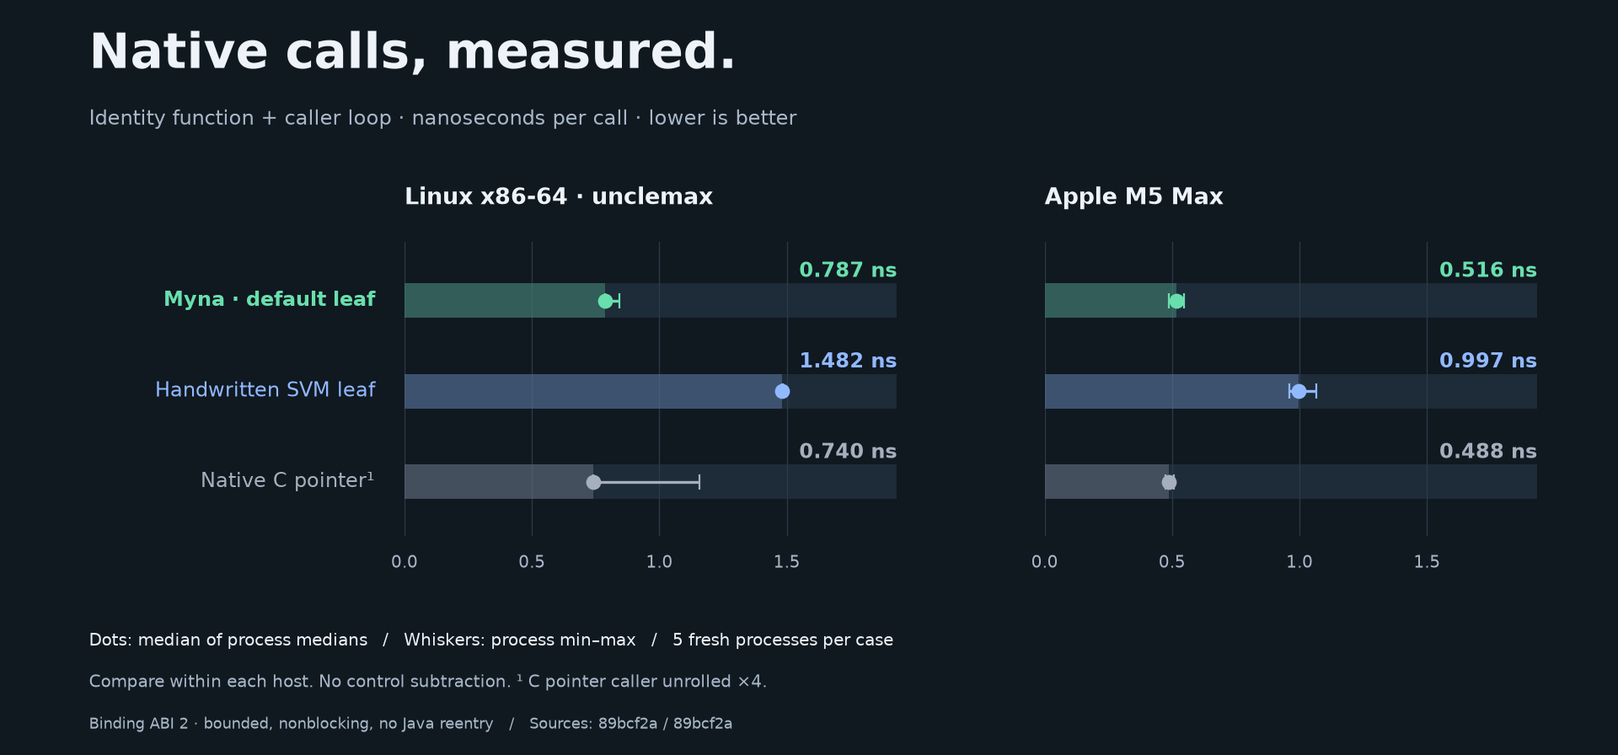
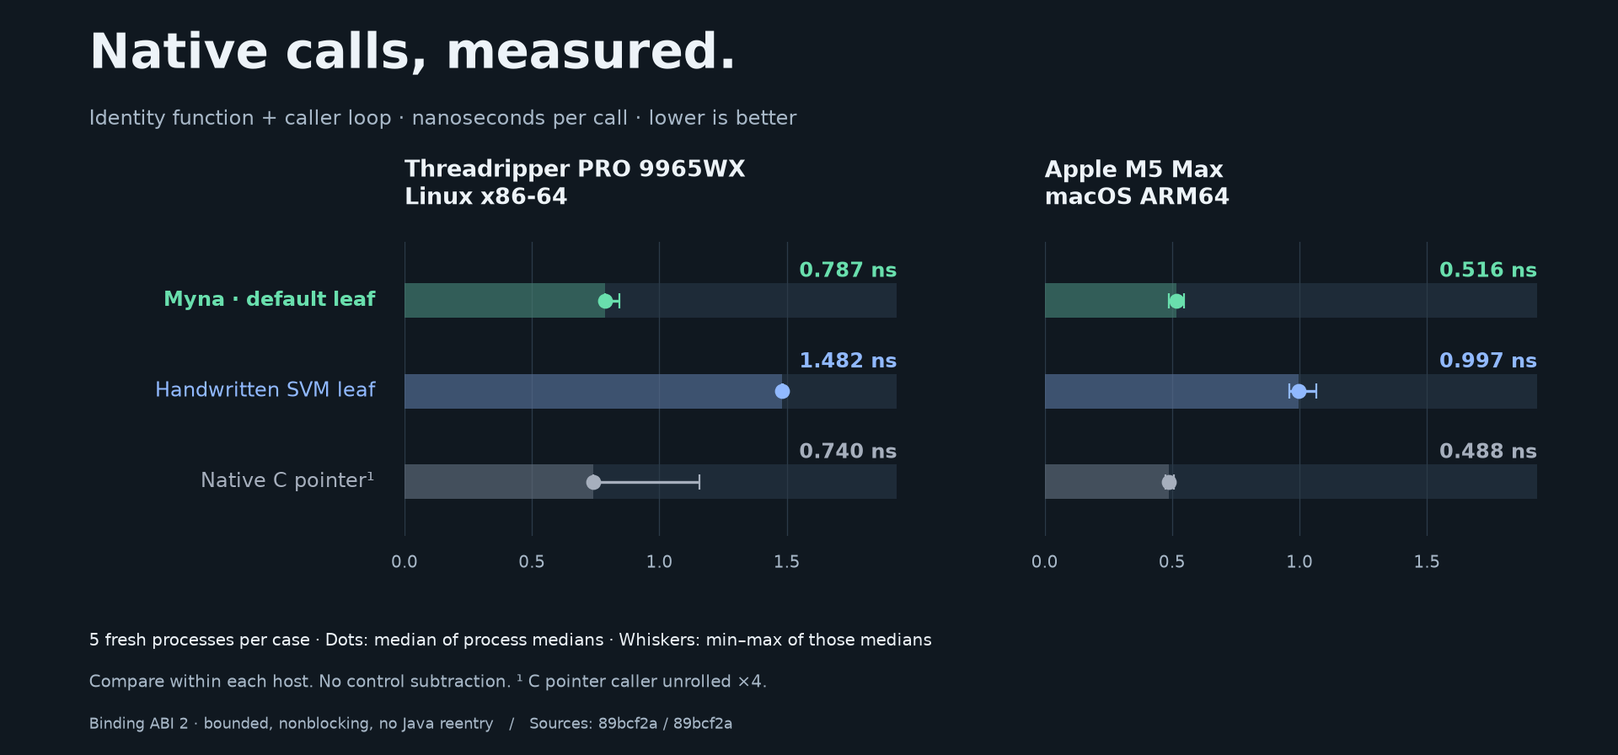
docs: tighten binding example and benchmark interpretation

Changed region(s): [[0.0625, 0.8438, 0.5625, 0.875], [0.25, 0.1875, 0.4688, 0.2812], [0.625, 0.2188, 0.7812, 0.2812]]

diff --git a/benchmarks/comparison/abi2-chart.py b/benchmarks/comparison/abi2-chart.py
@@ -40,7 +40,7 @@ plt.rcParams.update({'font.family':'DejaVu Sans','font.size':11,'svg.hashsalt':'
 fig,axes=plt.subplots(1,2,figsize=(12,5.6),facecolor=background)
 fig.subplots_adjust(left=.25,right=.95,top=.68,bottom=.29,wspace=.30)
 limit=max(max(g[(mode,case)]) for g in groups for mode,case,_,_ in cases)*1.30
-for ax,g,title in zip(axes,groups,('Linux x86-64 · unclemax','Apple M5 Max')):
+for ax,g,title in zip(axes,groups,('Threadripper PRO 9965WX\nLinux x86-64','Apple M5 Max\nmacOS ARM64')):
     ax.set_facecolor(background)
     for y,(mode,case,label,color) in enumerate(cases):
         values=g[(mode,case)]; median=statistics.median(values)
@@ -63,7 +63,7 @@ for y,(_,_,label,color) in enumerate(cases):
                  ha='right',va='center',fontsize=11,color=color,fontweight='bold' if y==0 else 'normal')
 fig.text(.055,.91,'Native calls, measured.',fontsize=26,fontweight='bold',color=foreground)
 fig.text(.055,.835,'Identity function + caller loop · nanoseconds per call · lower is better',fontsize=11,color=muted)
-fig.text(.055,.145,'Dots: median of process medians   /   Whiskers: process min–max   /   5 fresh processes per case',
+fig.text(.055,.145,'5 fresh processes per case · Dots: median of process medians · Whiskers: min–max of those medians',
          fontsize=9,color=foreground)
 fig.text(.055,.09,'Compare within each host. No control subtraction. ¹ C pointer caller unrolled ×4.',fontsize=9,color=muted)
 fig.text(.055,.035,'Binding ABI 2 · bounded, nonblocking, no Java reentry   /   Sources: '

diff --git a/README.md b/README.md
@@ -12,13 +12,13 @@
 
 # Myna
 
-Generate typed bindings between Java, Rust, and C/C++ from one `.seam` file. Myna targets **GraalVM Native Image / Substrate VM first**, with Java 25 FFM bindings for JVM callers. It also emits C headers, Rust FFI, ABI descriptors, and LLVM 23 optimizer contracts.
+Generate typed C-ABI bindings between Java, Rust, and C/C++ from one `.seam` file. Myna targets **GraalVM Native Image / Substrate VM first**, with Java 25 FFM bindings for JVM callers. It also emits C headers, Rust FFI, ABI descriptors, and LLVM 23 optimizer contracts.
 
 ## One binding, from Seam to native code
 
-This increment function is a complete scalar example of the default native-leaf contract: short, bounded, nonblocking, and unable to reenter Java.
+This example follows a signed 64-bit increment through the generated API to its C implementation. The function meets the default native-leaf contract: short, bounded, nonblocking, and unable to reenter Java. Its arithmetic precondition is `value < INT64_MAX`.
 
-**1. Describe the native function.** The [tested Seam fixture](tests/fast/fast.seam) declares its symbol, argument, return type, and static library:
+**1. Describe the native function.** The following excerpt from the [tested Seam fixture](tests/fast/fast.seam) declares its symbol, argument, return type, and static library:
 
 ```text
 module fast_fixture target=aarch64-apple-darwin java_package=fixture.fast java_class=FastApi c_context=fixture.fast.Directives c_library=fastfixture c_library_static=true
@@ -34,20 +34,24 @@ build/dist/myna generate tests/fast/fast.seam --out build/fast-example
 # For Linux x86-64, add: --target x86_64-unknown-linux-gnu
 ```
 
-**2. Myna generates the Java declarations.** The direct SVM API exposes a typed native pointer and an inlineable call. This excerpt is abridged; Myna supplies the initialization helpers and compiler annotations:
+**2. Myna generates the Java declarations.** The direct SVM backend uses internal APIs from the pinned Elide GraalVM distribution. These selected members of `FastApi` show the typed pointer and inlineable wrapper; imports, class annotations, and symbol-initialization helpers are omitted:
 
 ```java
 // FastApi.java — generated for Native Image
 public interface increment_Leaf extends CFunctionPointer {
+    @AlwaysInline("Myna binding ABI 2 native leaf")
+    @Uninterruptible(reason = "Bounded primitive/word native leaf; no Java reentry",
+                     mayBeInlined = true)
     @InvokeCFunctionPointer(transition = CFunction.Transition.NO_TRANSITION)
     long invoke(long value);
 }
+@AlwaysInline("Myna native leaf call")
 public static long increment(long value) {
     return MynaSymbols.increment.get().invoke(value);
 }
 ```
 
-The generated JVM adapter describes the same C ABI using Java 25 FFM:
+The generated JVM adapter describes the same signature with Java 25 FFM. This factory creates an ordinary FFM downcall; the direct SVM microbenchmark below measures a different call path:
 
 ```java
 // FastApiFFM.java — generated for the JVM
@@ -81,26 +85,27 @@ Here `libraryPath` is a `Path` to your platform's shared library; enable JVM nat
 ```c
 #include <stdint.h>
 
+// Precondition: value < INT64_MAX.
 int64_t myna_fast_increment(int64_t value) {
     return value + 1;
 }
 ```
 
-For SVM, link this implementation into `libfastfixture.a`, supply the [library-path directives](tests/fast/Directives.java), and include the generated `META-INF/native-image/` resources with the compiled bindings. The [Native Image integration test](tests/native_image_integration.py) builds and runs this path, including calls under concurrent GC. See [the adapter guide](docs/jvm-roadmap.md) for shared-library and FFM setup.
+For SVM, compile the C implementation into `libfastfixture.a` and compile the [library-path directives](tests/fast/Directives.java) alongside the bindings. Pass `-Dmyna.fast.libraryPath=/absolute/path/to/library-directory` to the Native Image builder, and include the generated `META-INF/native-image/` resources with the compiled classes. The [Native Image integration test](tests/native_image_integration.py) builds and runs this path, including default calls under concurrent GC. See [the adapter guide](docs/jvm-roadmap.md) for shared-library and FFM setup.
 
-Truffle languages can use these bindings from runtime-compiled code; see [the Truffle guest guide](docs/truffle-guests.md).
+Direct leaf bindings can also be called from Truffle-compiled code. The [Truffle guest guide](docs/truffle-guests.md) lists the compiler-version requirements for transitioning and FFM calls.
 
-Calls that can block or reenter Java must declare `native_leaf=false@explicit_contract`. Myna checks declared contracts for consistency; the native implementation must obey them.
+Calls that cannot meet the bounded, nonblocking, non-reentrant leaf contract must declare `native_leaf=false@explicit_contract`. Myna checks declared contracts for consistency; the native implementation must obey them.
 
-## Call overhead
+## Native-call microbenchmark
 
-Generated identity calls measure **0.787 ns on Linux x86-64 (unclemax)** and **0.516 ns on Apple M5 Max** in the November 7, 2026 binding ABI 2 reruns. The same builds measure handwritten Native Image `@CFunction(NO_TRANSITION)` calls at **1.482 ns** and **0.997 ns**, respectively.
+In the November 7, 2026 binding ABI 2 runs, generated SVM identity loops take **0.787 ns/call on Linux x86-64 (Threadripper PRO 9965WX)** and **0.516 ns/call on Apple M5 Max**. Handwritten Native Image `@CFunction(transition = NO_TRANSITION)` bindings to the same native function take **1.482 ns/call** and **0.997 ns/call**, respectively. These are elapsed loop time divided by call count, summarized as the median of five process medians.
 
-![Identity-call latency within each host: Myna default leaves, handwritten SVM leaves, and native C pointers; points show process medians and ranges](docs/charts/default-leaf.svg)
+![Time per call in an identity loop: generated and handwritten SVM leaves, with an unrolled native C pointer reference; dots show medians and whiskers span five process medians](docs/charts/default-leaf.svg)
 
-These timings include the identity function and caller loop, with no control subtraction. Each case has five fresh processes with ten samples each. Compare implementations **within each host**: Myna and native-pointer ranges overlap on both hosts, so these measurements do not establish a win over native C. Native pointer callers are explicitly unrolled four times.
+Each case uses five fresh processes, each with ten warmup and ten retained samples. Generated and handwritten SVM paths use the same image build; all three series call the same native kernel object within each host. Timings include the callee and loop, with no control subtraction. The C function-pointer series is a reference floor with explicit four-call unrolling, so loop structure also differs. Whiskers show the min–max of the five process medians, not confidence intervals. Myna and native-pointer ranges overlap on both hosts; these runs do not establish a win over native C. Compare implementations **within each host**.
 
-Myna's generated direct calls use relocated symbols and remove the extra SVM leaf stub. Both hosts pass concurrent-GC and assembly checks. See [the performance design](docs/performance.md) and [ABI 2 contracts](docs/binding-abi-2.md).
+The inspected generated SVM paths call the linked symbol without a standalone generated leaf stub. Separate pointer and bounded-batch workloads pass the benchmark's concurrent-GC stress check on both hosts. See [the performance design](docs/performance.md) and [ABI 2 contracts](docs/binding-abi-2.md).
 
 [Linux measurements](benchmarks/comparison/baselines/default-leaf-2026-11-07-linux-x86_64.json) · [Linux analysis](benchmarks/comparison/baselines/default-leaf-2026-11-07-linux-x86_64.md) · [Mac analysis](benchmarks/comparison/baselines/default-leaf-2026-11-07-macos-arm64.md) · [Rerun](benchmarks/floor/README.md) · [Machine code and rerun provenance](benchmarks/comparison/evidence/readme-2026-11-07/README.md)
 
@@ -121,52 +126,36 @@ Latencies include the callee and loop; the control is not subtracted. Transition
 
 Requirements: mise 2026.10.25+ and the platform SDK. mise installs pinned Elide 1.6.2, elide-dev/toolchain 2026.11.5 (including LLVM/LLD), Rust, CMake, and workflow linters. Setup installs the checksum-pinned elide-dev/graal 25.5.5-elide.24 distribution. Elide supplies Java compilation and Python; native builds use the pinned external GraalVM driver.
 
-Native builds preserve `CC`, `CXX`, `CPPFLAGS`, `CFLAGS`, `CXXFLAGS`, and `LDFLAGS`; compiler overrides must remain compatible with the pinned LLVM 23 toolchain and sysroot. Native Image receives C/preprocessor flags for its C compilation and linker flags for its native link; the C++ applicator uses CMake's standard flag handling. Debug information is retained in matching symbol sidecars before release executables are stripped. CMake installation supports `cmake --install build/llvm --prefix PREFIX` and the standard `DESTDIR` staging variable. Containers can be installed and removed with the normal `docker pull`/`docker image rm` commands.
-
 ```sh
 mise trust
 mise install --locked
 mise run setup                      # Elide Python component and dependencies
-mise run build                      # native executable, generator JAR, Feature JAR
-mise run build:llvm
+mise run build:llvm                 # native CLI, JARs, and LLVM applicator
 
 build/dist/myna generate examples/buffer.seam --out build/seam
 build/dist/myna validate examples/buffer.seam
 build/dist/myna generate examples/buffer.seam --out build/seam --check
 ```
 
-Outputs live in `build/dist/`. `elide.pkl` is the primary application build. `pom.xml` remains an optional Maven compatibility build. The Java generator has no runtime dependencies. Native compilation uses the pinned external elide-dev/graal Native Image driver.
+Outputs live in `build/dist/`. `elide.pkl` is the primary application build. `pom.xml` remains an optional Maven compatibility build. The Java generator has no runtime dependencies.
+
+Native builds preserve `CC`, `CXX`, `CPPFLAGS`, `CFLAGS`, `CXXFLAGS`, and `LDFLAGS`; compiler overrides must remain compatible with the pinned LLVM 23 toolchain and sysroot. Native Image receives C/preprocessor flags for its C compilation and linker flags for its native link; the C++ applicator uses CMake's standard flag handling. Symbol sidecars are extracted before stripping: Linux retains DWARF, while macOS Native Image supplies method symbols rather than full source debugging information. CMake installation supports `cmake --install build/llvm --prefix PREFIX` and the standard `DESTDIR` staging variable.
 
 The descriptor target is explicit. Use `--target x86_64-unknown-linux-gnu` to override the example's macOS ARM64 target. The CLI never guesses an ABI from its own host.
 
-```sh
-# Compile Rust for linker-driven ThinLTO, then annotate its real archive.
-rustc --crate-type=rlib -Clinker-plugin-lto src/lib.rs -o build/libapp.rlib
-build/dist/myna apply \
-  --contracts build/seam/seam.ll \
-  --input build/libapp.rlib --output build/libapp.seam.rlib \
-  --llvm-tool build/dist/myna-llvm
-```
-
-Use the rewritten archive/object in the final LLVM 23 / LLD link. A contract-only `.ll` file is an interchange artifact; simply adding it to a link is insufficient. Keep the original object: changed contracts must be applied to fresh compiler output.
+For LLVM optimization, use `myna apply` to attach the generated `seam.ll` contracts to compiler-produced bitcode objects or archives before the LLVM 23 / LLD link. A contract-only `.ll` file is an interchange artifact; simply adding it to a link is insufficient. Keep the original object: changed contracts must be applied to fresh compiler output. See [the ThinLTO integration guide](docs/thinlto.md) for the C/C++ and Rust build pipelines.
 
 ## Binding descriptions
 
 The initial frontend is a strict, line-oriented text DSL with `#` comments. See [the DSL reference](docs/dsl.md), [the owned end-to-end fixture](examples/buffer.seam), and [the inventoried Elide LZMA ABI](examples/elide_lzma.seam).
 
-```text
-module example abi=1 target=x86_64-unknown-linux-gnu
-import readCount symbol=example_read_count return=i64 error=no_failure
-  param value type=ptr<i64> nullable=false ownership=borrowed access=read nonnull=true@explicit_contract readonly=true@explicit_contract
-end
-```
+Generation produces:
 
-Every generation produces:
-
-- `seam.h`, `seam.rs`, `MynaFFM.java`, `MynaNative.java`, `MynaForeignFeature.java`
-- `seam.json` with optimizer-fact provenance, `seam.abi` with a SHA-256 fingerprint
-- `META-INF/native-image/` initialization metadata; include it with compiled bindings
-- `seam.ll`, consumed by `myna apply` or assembled by LLVM 23's `llvm-as`
+- `seam.h` and `seam.rs` for C and Rust consumers.
+- A direct Native Image API, a JVM FFM API, and a Native Image FFM registration feature. With `java_class=FastApi`, these are `FastApi.java`, `FastApiFFM.java`, and `FastApiForeignFeature.java`.
+- `seam.json` with optimizer-fact provenance and `seam.abi` with the descriptor's SHA-256 fingerprint.
+- `META-INF/native-image/` initialization metadata to package with the compiled Java bindings.
+- `seam.ll`, consumed by `myna apply` to annotate compiled LLVM objects and archives.
 
 Strict mode rejects unapproved facts. `--relaxed` preserves them in JSON and omits them from LLVM. Unsupported shapes and contradictory contracts always fail. Explicit contracts are obligations of the implementation; validation cannot prove an arbitrary native implementation obeys them.
 
@@ -209,18 +198,27 @@ mise run test:native-image
 
 Production JVM coverage gates are 99% lines and 93% branches. Rust integration coverage requires 97.5% lines; native C/C++ and LLVM coverage require 98% lines. Native-only Java readers are exercised in SVM integration tests. Golden outputs are checked in under `tests/golden/`. The LLVM suite proves load elimination in both C and Rust, checks attributes in LLD's saved ThinLTO output, preserves archive metadata/native members, and rejects stale contracts and incompatible ABIs. The Native Image suite runs Rust → Native Image → Rust and tests exception translation and a leaf call with no VM transition. It also builds and runs the generated FFM bindings as a Native Image executable.
 
-CI runs JVM tests and native integration on Linux and macOS, retaining the XML reports and built artifacts. Codecov receives JaCoCo coverage plus JVM and native JUnit test results, authenticated with GitHub OIDC. Upload errors fail CI. It uses the same mise tasks and lockfile as local development and requires LLVM major 23; update Rust and LLVM together. See [CI maintenance and Elide compatibility notes](docs/ci.md).
+Code and build changes run JVM tests plus native integration on Linux and macOS, retaining XML reports and built artifacts. Markdown-only changes retain the required Gate and hygiene checks while skipping those builds. Codecov receives JaCoCo coverage plus JVM and native JUnit test results, authenticated with GitHub OIDC. Upload errors fail CI. It uses the same mise tasks and lockfile as local development and requires LLVM major 23; update Rust and LLVM together. See [CI maintenance and Elide compatibility notes](docs/ci.md).
 
 ## Benchmarks
 
-JMH benchmarks in `benchmarks/` cover the generator pipeline (DSL parsing, validation, JSON canonicalization and fingerprinting, every backend, and end-to-end generation) on the repository's example seams plus a synthetic large module. They use the [CodSpeed](https://codspeed.io) JMH fork, vendored as the `third-party/codspeed-jvm` submodule, and run in CI on compatible hosted ARM runners in walltime mode. Configure `MYNA_ARM_BENCH_RUNNER` for controlled compatible hardware; shared-host timings remain advisory.
+The direct-call chart above comes from the uninstrumented native/SVM floor harness:
 
 ```sh
-git submodule update --init --recursive third-party/codspeed-jvm
-# The CI ARM build uses benchmarks/codspeed.init.gradle to select the JNI target.
+mise run bench:floor-build
+mise run bench:floor
+```
+
+It retains raw samples, build metadata, source and binary hashes, and disassembly. See [the harness contract](benchmarks/floor/README.md) and [the chart's measurement record](benchmarks/comparison/evidence/readme-2026-11-07/README.md).
+
+The broader interop comparison has separate build and run tasks:
+
+```sh
 mise run bench:comparison-build
 mise run bench:comparison
 ```
+
+Generator performance is tracked separately by JMH under [CodSpeed](https://codspeed.io). Its workloads cover parsing, validation, serialization, backend emission, and end-to-end generation. The [CodSpeed workflow](.github/workflows/codspeed.yml) builds the pinned `third-party/codspeed-jvm` submodule and benchmark JAR. Configure `MYNA_ARM_BENCH_RUNNER` for compatible controlled ARM hardware; shared-host wall-time changes remain advisory. See [benchmarking](docs/benchmarking.md) for commands and interpretation limits.
 
 ## Downstream distribution
 
@@ -235,7 +233,7 @@ docker run --rm --user "$(id -u):$(id -g)" -v "$PWD:/work" myna:local \
 
 The `llvm23` variant also supports `apply` and includes the LLVM tools. The default image contains the native generator and its JAR. The Feature JAR is available from `build/dist/` and CI build artifacts. Both container builds use the checksum-pinned `elide-dev/toolchain` bundle, including its LLVM libraries and compiler runtime.
 
-The container workflow builds and smoke-tests both variants on pull requests. Pushing a `v*` tag builds, tests, and publishes `ghcr.io/<owner>/<repo>:<tag>` and `<tag>-llvm23` using the repository's `GITHUB_TOKEN`. Images are Linux amd64 initially. Publication status is visible in the release workflow. Downstream builds should pin an image digest. See [release verification](docs/releases.md) for SBOM scope, provenance checks, symbols, and the draft-release process.
+The container workflow builds and smoke-tests both variants on pull requests that include non-Markdown changes. Pushing a `v*` tag builds, tests, and publishes `ghcr.io/<owner>/<repo>:<tag>` and `<tag>-llvm23` using the repository's `GITHUB_TOKEN`. Images are Linux amd64 initially. Publication status is visible in the release workflow. Downstream builds should pin an image digest. See [release verification](docs/releases.md) for SBOM scope, provenance checks, symbols, and the draft-release process.
 
 ## Native Image Feature
 
@@ -257,7 +255,7 @@ Java 25 FFM supports explicit library arenas, typed buffer borrows, consumer-own
 
 The tested subset is C calling convention, `bool`, `char`, 8- to 64-bit and pointer-sized integers with per-target extension, floats, typed pointers, callbacks in both directions, isolate threads as values, opaque handles, naturally aligned records with explicit offsets passed by pointer or by value, and isolate-thread exports with include predicates and abort/integer/null exception translation.
 
-Arrays and nested by-value fields, enums, general allocator optimizer attributes, automatic ownership inference, additional address spaces, and YAML remain future work. The original [architecture briefing](myna-architecture-briefing.md) describes the broader roadmap.
+Fixed-size C array fields, nested by-value records, enums, general allocator optimizer attributes, automatic ownership inference, additional address spaces, and YAML remain future work. The original [architecture briefing](myna-architecture-briefing.md) describes the broader design; the [current roadmap](docs/jvm-roadmap.md) distinguishes implemented features from planned work.
 
 Performance maintenance uses pinned Elide 1.6.2, native toolchain 2026.11.5,
 and Elide GraalVM 25.5.5-elide.24. See [benchmarking and native validation](docs/benchmarking.md)

diff --git a/benchmarks/comparison/evidence/readme-2026-11-07/README.md b/benchmarks/comparison/evidence/readme-2026-11-07/README.md
@@ -1,19 +1,19 @@
 # README call-floor rerun · November 7, 2026
 
-Each host runs the complete uninstrumented `benchmarks/floor/run.py` workload: five fresh processes per case, ten retained samples per process, seeded case order, and 16,777,216 calls per sample. The oracle validates results; stress checks require observed GC. Within each host, generated SVM leaves, handwritten SVM leaves, and C callers use the same separately compiled kernel object without LTO. Normal-transition measurements remain separate from leaf comparisons.
+Each host runs the complete uninstrumented `benchmarks/floor/run.py` workload: five fresh processes per case, ten warmup and ten retained samples per process, seeded case order, and 16,777,216 calls per sample. The oracle validates results. Separate pointer and bounded-batch stress workloads require observed GC; they do not exercise the charted identity calls. Within each host, generated SVM leaves, handwritten SVM leaves, and C callers use the same separately compiled kernel object without LTO. Both SVM paths use the same image build. Normal-transition measurements remain separate from leaf comparisons.
 
 ## Chart inputs
 
 - **unclemax:** Linux x86-64, AMD Ryzen Threadripper PRO 9965WX. [Raw samples and build metadata](../../baselines/default-leaf-2026-11-07-linux-x86_64.json) · [report](../../baselines/default-leaf-2026-11-07-linux-x86_64.md) · [selected instructions](linux-x86_64.asm) · [inspection metadata](linux-x86_64.json) · [environment](unclemax-environment.json)
 - **Mac:** Apple M5 Max. [Raw samples and build metadata](../../baselines/default-leaf-2026-11-07-macos-arm64.json) · [report](../../baselines/default-leaf-2026-11-07-macos-arm64.md) · [selected instructions](macos-arm64.asm) · [inspection metadata](macos-arm64.json)
 
-Both runs use identical hashes for all 40 measured source inputs at revision `89bcf2a`. The Mac checkout was clean during build. Unclemax used an isolated checkout at `/tmp/myna-readme-2026-11-07.GY7woO/source`; no existing project checkout was modified. Setup used mise 2026.10.25, toolchain 2026.11.5, and checksum-verified GraalVM 25.5.5-elide.24. Both Native Image compiler-fallback symlinks were synchronized to the pinned toolchain before these builds.
+Both runs use identical hashes for all 40 source inputs recorded in the build manifests at revision `89bcf2a`. The Mac checkout was clean during build. Unclemax used an isolated checkout at `/tmp/myna-readme-2026-11-07.GY7woO/source`; no existing project checkout was modified. Both builds used toolchain 2026.11.5 and checksum-verified GraalVM 25.5.5-elide.24; unclemax's setup used mise 2026.10.25. Both Native Image compiler-fallback symlinks were synchronized to the pinned toolchain before these builds.
 
 The raw result files retain hardware identity, commands, compiler versions, source/binary hashes, and all samples. Full Mac disassemblies remain in `build/floor/`; full unclemax disassemblies remain in its isolated `build/floor/`. Compressed copies are retained locally in `build/readme-full-disassembly/`. Their decompressed SHA-256 digests match `full_disassembly_sha256` in the inspection metadata. These are machine instructions, not LLVM IR. The selected-instruction files normalize trailing blank lines and have their own recorded hashes. Inspection confirms no standalone generated ABI 2 leaf invoke stub; handwritten leaf stubs and caller loops remain available for comparison.
 
 ## Reading the chart
 
-The chart displays the median of per-process medians and the complete process min–max ranges. Myna and native C pointer ranges overlap on both hosts; these runs do not establish a performance win over native C. Unclemax's native-pointer range includes a slower process; no samples were dropped. Native pointer callers shown in the chart are explicitly unrolled four times. No control is subtracted. Compare implementations within each host; different CPU architectures and local/hosted timings cannot establish cross-machine performance improvements.
+The chart displays elapsed identity-loop time divided by call count, including the callee and loop. Dots show the median of five per-process medians; whiskers span the minimum and maximum of those five medians. These descriptive ranges are not confidence intervals. Myna and native C pointer ranges overlap on both hosts; these runs do not establish a performance win over native C. Unclemax's native-pointer range includes a slower process; no samples were dropped. Native pointer callers shown in the chart are explicitly unrolled four times. No control is subtracted. Compare implementations within each host; different CPU architectures and local/hosted timings cannot establish cross-machine performance improvements.
 
 ## Additional hosted baseline
 
